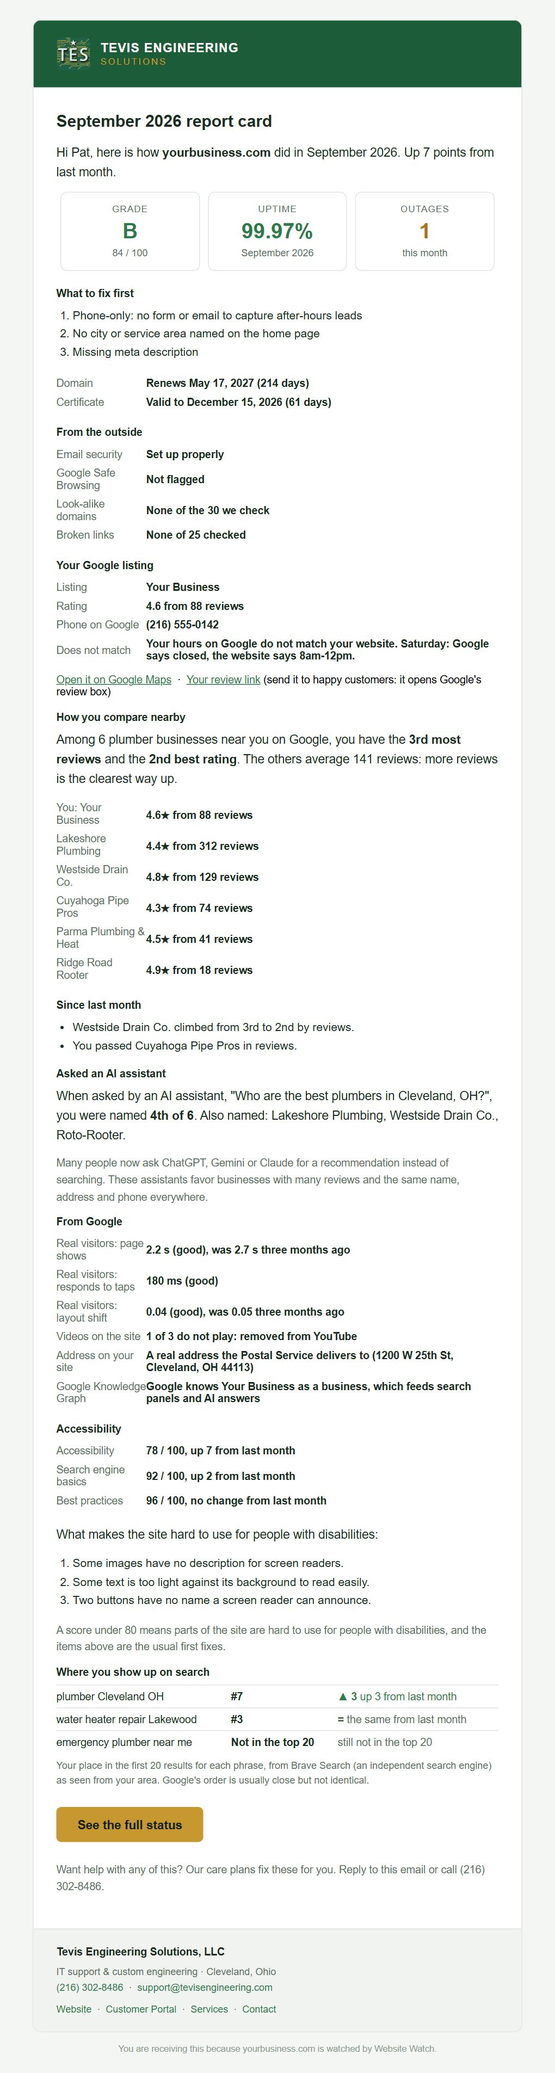
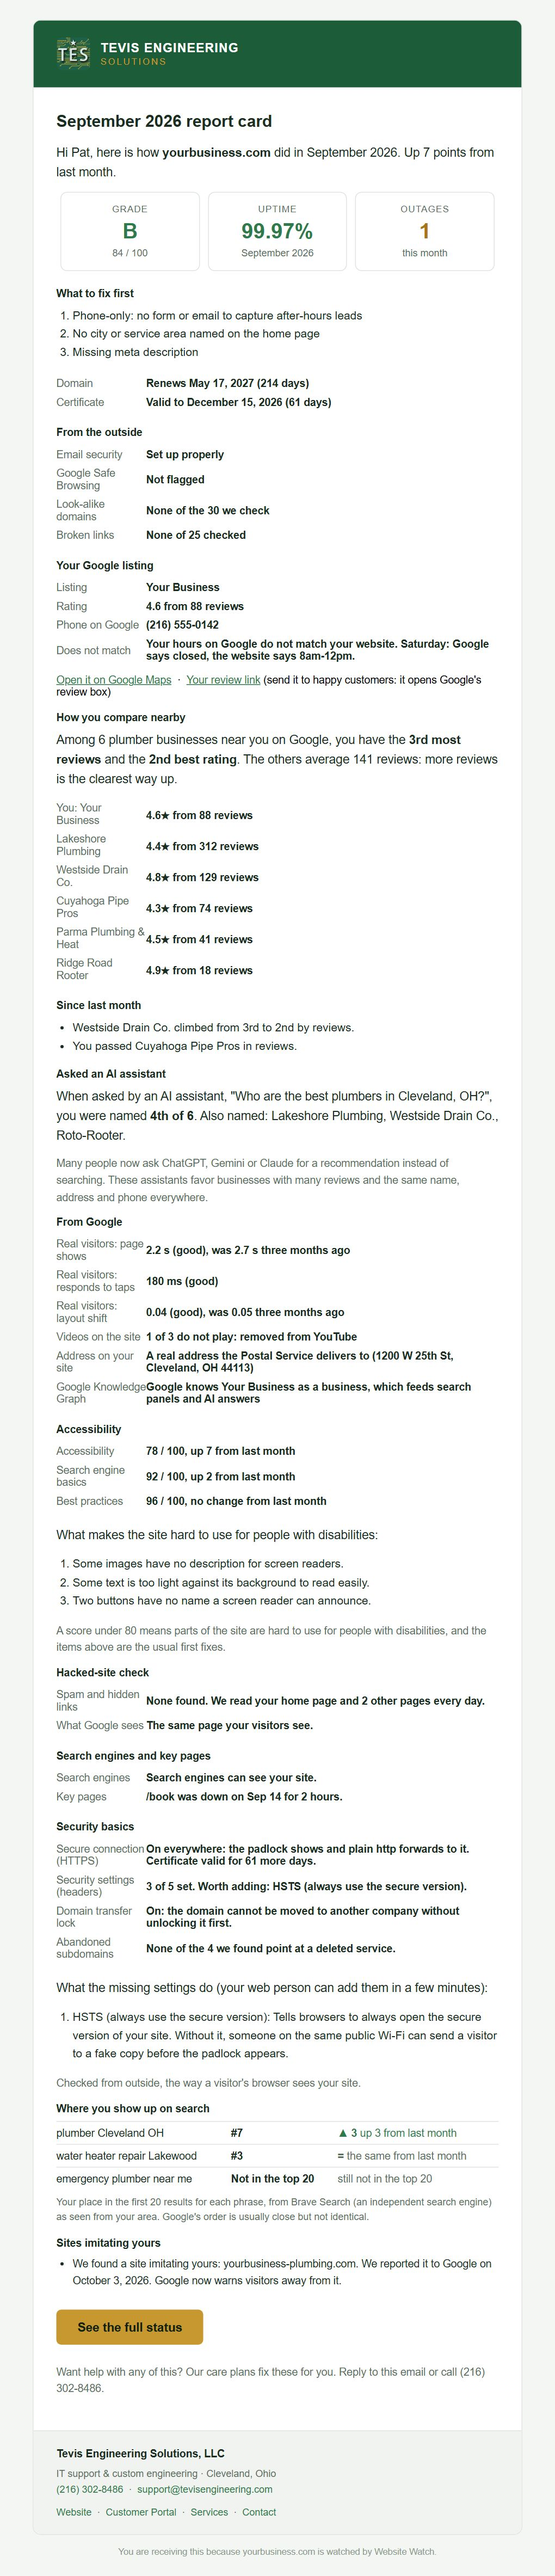
Website Watch page: Block B features (hacked-site check, still on Google, key pages, security basics, copycats reported, holiday hours), a ten-chip cloud, two FAQs, and the sample report card re-rendered with the new sections

Changed region(s): [[0.0608, 0.0, 0.9422, 0.9995]]

diff --git a/website-watch.html b/website-watch.html
@@ -732,7 +732,7 @@
 
 
     /* Feature cloud: eight chips orbit a hub that explains the chosen one. */
-    .ww-cloud { position:relative; width:min(900px, 100%); height:540px; margin:0 auto; }
+    .ww-cloud { position:relative; width:min(900px, 100%); height:600px; margin:0 auto; }
     .ww-cloud::before { content:""; position:absolute; inset:9% 7%; border-radius:50%; border:1px dashed rgba(74,172,101,0.28); }
     .ww-cloud::after { content:""; position:absolute; left:50%; top:50%; width:520px; height:360px; transform:translate(-50%,-50%); background:radial-gradient(closest-side, rgba(74,172,101,0.16), transparent); pointer-events:none; }
     .ww-hub { position:absolute; left:50%; top:50%; transform:translate(-50%,-50%); width:340px; z-index:1; text-align:center; padding:1.6rem 1.5rem; border-radius:28px; border:1px solid rgba(200,152,48,0.45); background:linear-gradient(170deg, rgba(200,152,48,0.1), rgba(20,32,25,0.95) 50%); box-shadow:0 24px 60px rgba(0,0,0,0.4); }
@@ -745,14 +745,22 @@
     .ww-fchip.on { background:linear-gradient(135deg,#c89830,#e0b840); border-color:transparent; color:#0d1710; box-shadow:0 10px 30px rgba(200,152,48,0.3); }
     .ww-fchip.on i { color:#0d1710; }
     .ww-fchip:nth-child(1) { left:50%; top:7%; }
-    .ww-fchip:nth-child(2) { left:79%; top:20%; }
-    .ww-fchip:nth-child(3) { left:84%; top:50%; }
-    .ww-fchip:nth-child(4) { left:79%; top:80%; }
-    .ww-fchip:nth-child(5) { left:50%; top:93%; }
-    .ww-fchip:nth-child(6) { left:21%; top:80%; }
-    .ww-fchip:nth-child(7) { left:16%; top:50%; }
-    .ww-fchip:nth-child(8) { left:21%; top:20%; }
+    .ww-fchip:nth-child(2) { left:70%; top:15.2%; }
+    .ww-fchip:nth-child(3) { left:85%; top:36.7%; }
+    .ww-fchip:nth-child(4) { left:85%; top:63.3%; }
+    .ww-fchip:nth-child(5) { left:70%; top:84.8%; }
+    .ww-fchip:nth-child(6) { left:50%; top:93%; }
+    .ww-fchip:nth-child(7) { left:30%; top:84.8%; }
+    .ww-fchip:nth-child(8) { left:15%; top:63.3%; }
+    .ww-fchip:nth-child(9) { left:15%; top:36.7%; }
+    .ww-fchip:nth-child(10) { left:30%; top:15.2%; }
     @keyframes wwFloat { 0%,100% { margin-top:0; } 50% { margin-top:-6px; } }
+    @media (min-width: 901px) and (max-width: 1100px) {
+      .ww-hub { width:300px; }
+      .ww-fchip { font-size:0.8rem; padding:0.55rem 0.85rem; }
+      .ww-fchip:nth-child(3), .ww-fchip:nth-child(4) { left:84%; }
+      .ww-fchip:nth-child(8), .ww-fchip:nth-child(9) { left:16%; }
+    }
     @media (prefers-reduced-motion: reduce) { .ww-fchip { animation:none; } }
     .ww-fchip-d, .ww-fdots { display:none; }
     @media (max-width:900px) {
@@ -1065,34 +1073,36 @@
     <section class="ww-sec" id="features" aria-labelledby="featHead">
       <div class="ww-head">
         <span class="ww-kicker">What you get</span>
-        <h2 id="featHead">Eight Ways a Website Quietly Loses You Customers, Caught</h2>
+        <h2 id="featHead">Ten Ways a Website Quietly Loses You Customers, Caught</h2>
       </div>
       <div class="ww-cloud" id="wwCloud">
         <div class="ww-hub" aria-live="polite">
           <div class="ww-hub-ic"><i class="fa-solid fa-phone-slash" id="wwHubIc"></i></div>
           <h3 id="wwHubT">Down? You hear first</h3>
-          <p id="wwHubD">Visitors never tell you; they call the next name on Google. We check every 15 minutes and email you the minute it stops, and again when it is back.</p>
+          <p id="wwHubD">Visitors never tell you; they call the next name on Google. We check your site every 15 minutes and your contact and booking pages every hour, and email you the minute one stops.</p>
         </div>
         <div class="ww-fchips" role="group" aria-label="What Website Watch checks">
-          <button type="button" class="ww-fchip on" style="--i:0" data-ic="fa-solid fa-phone-slash" data-d="Visitors never tell you; they call the next name on Google. We check every 15 minutes and email you the minute it stops, and again when it is back." aria-pressed="true"><span class="ww-fchip-ic"><i class="fa-solid fa-phone-slash"></i></span> <span class="ww-fchip-t">Down? You hear first</span><span class="ww-fchip-d">Visitors never tell you; they call the next name on Google. We check every 15 minutes and email you the minute it stops, and again when it is back.</span></button>
+          <button type="button" class="ww-fchip on" style="--i:0" data-ic="fa-solid fa-phone-slash" data-d="Visitors never tell you; they call the next name on Google. We check your site every 15 minutes and your contact and booking pages every hour, and email you the minute one stops." aria-pressed="true"><span class="ww-fchip-ic"><i class="fa-solid fa-phone-slash"></i></span> <span class="ww-fchip-t">Down? You hear first</span><span class="ww-fchip-d">Visitors never tell you; they call the next name on Google. We check your site every 15 minutes and your contact and booking pages every hour, and email you the minute one stops.</span></button>
           <button type="button" class="ww-fchip" style="--i:1" data-ic="fa-solid fa-calendar-check" data-d="A lapsed domain takes your email down with it; an expired certificate shows &ldquo;Not secure.&rdquo; We warn you 30, 14 and 7 days ahead." aria-pressed="false"><span class="ww-fchip-ic"><i class="fa-solid fa-calendar-check"></i></span> <span class="ww-fchip-t">Renewals never sneak up</span><span class="ww-fchip-d">A lapsed domain takes your email down with it; an expired certificate shows &ldquo;Not secure.&rdquo; We warn you 30, 14 and 7 days ahead.</span></button>
           <button type="button" class="ww-fchip" style="--i:2" data-ic="fa-solid fa-envelope-circle-check" data-d="We check the settings that keep your quotes and invoices out of spam folders, and tell you in plain words what is missing." aria-pressed="false"><span class="ww-fchip-ic"><i class="fa-solid fa-envelope-circle-check"></i></span> <span class="ww-fchip-t">Your email lands, not spam</span><span class="ww-fchip-d">We check the settings that keep your quotes and invoices out of spam folders, and tell you in plain words what is missing.</span></button>
-          <button type="button" class="ww-fchip" style="--i:3" data-ic="fa-solid fa-user-secret" data-d="If your domain's settings change, we ask &ldquo;was that you?&rdquo; If someone registers a look-alike name to fool your customers, we tell you." aria-pressed="false"><span class="ww-fchip-ic"><i class="fa-solid fa-user-secret"></i></span> <span class="ww-fchip-t">Hijacks and copycats spotted</span><span class="ww-fchip-d">If your domain's settings change, we ask &ldquo;was that you?&rdquo; If someone registers a look-alike name to fool your customers, we tell you.</span></button>
-          <button type="button" class="ww-fchip" style="--i:4" data-ic="fa-solid fa-shield-halved" data-d="A hacked site gets a red warning screen in Chrome and loses its visitors overnight. We check Google's list daily and alert you at once." aria-pressed="false"><span class="ww-fchip-ic"><i class="fa-solid fa-shield-halved"></i></span> <span class="ww-fchip-t">Off Google's danger list</span><span class="ww-fchip-d">A hacked site gets a red warning screen in Chrome and loses its visitors overnight. We check Google's list daily and alert you at once.</span></button>
+          <button type="button" class="ww-fchip" style="--i:3" data-ic="fa-solid fa-user-secret" data-d="If your domain's settings change, we ask &ldquo;was that you?&rdquo; If a look-alike site copies yours to fool your customers, we tell you and report it to Google." aria-pressed="false"><span class="ww-fchip-ic"><i class="fa-solid fa-user-secret"></i></span> <span class="ww-fchip-t">Hijacks and copycats spotted</span><span class="ww-fchip-d">If your domain's settings change, we ask &ldquo;was that you?&rdquo; If a look-alike site copies yours to fool your customers, we tell you and report it to Google.</span></button>
+          <button type="button" class="ww-fchip" style="--i:4" data-ic="fa-solid fa-bug" data-d="Hackers plant spam links you can't see and show Google a different page. We read your pages every day, check Google's danger list, and alert you at once." aria-pressed="false"><span class="ww-fchip-ic"><i class="fa-solid fa-bug"></i></span> <span class="ww-fchip-t">Hacked? Caught early</span><span class="ww-fchip-d">Hackers plant spam links you can't see and show Google a different page. We read your pages every day, check Google's danger list, and alert you at once.</span></button>
           <button type="button" class="ww-fchip" style="--i:5" data-ic="fa-solid fa-link-slash" data-d="Broken links and missing images make a business look closed. We find them every month and list exactly where they are." aria-pressed="false"><span class="ww-fchip-ic"><i class="fa-solid fa-link-slash"></i></span> <span class="ww-fchip-t">No dead ends</span><span class="ww-fchip-d">Broken links and missing images make a business look closed. We find them every month and list exactly where they are.</span></button>
           <button type="button" class="ww-fchip" style="--i:6" data-ic="fa-solid fa-cart-shopping" data-d="Store stuck behind its password, a $0.00 price, an emptied catalog, a cart that stopped loading or a price that changed: you know the same day." aria-pressed="false"><span class="ww-fchip-ic"><i class="fa-solid fa-cart-shopping"></i></span> <span class="ww-fchip-t">Shopify store checks</span><span class="ww-fchip-d">Store stuck behind its password, a $0.00 price, an emptied catalog, a cart that stopped loading or a price that changed: you know the same day.</span></button>
           <button type="button" class="ww-fchip" style="--i:7" data-ic="fa-solid fa-chart-line" data-d="Add one line to your site and see visitors, plus the clicks that matter: calls, emails, form sends and add-to-carts. No cookies, no banner." aria-pressed="false"><span class="ww-fchip-ic"><i class="fa-solid fa-chart-line"></i></span> <span class="ww-fchip-t">See who is calling</span><span class="ww-fchip-d">Add one line to your site and see visitors, plus the clicks that matter: calls, emails, form sends and add-to-carts. No cookies, no banner.</span></button>
+          <button type="button" class="ww-fchip" style="--i:8" data-ic="fa-solid fa-eye" data-d="A redesign that tells search engines to stay away can quietly empty your phone. We check every day that Google can still find and list your site." aria-pressed="false"><span class="ww-fchip-ic"><i class="fa-solid fa-eye"></i></span> <span class="ww-fchip-t">Still on Google</span><span class="ww-fchip-d">A redesign that tells search engines to stay away can quietly empty your phone. We check every day that Google can still find and list your site.</span></button>
+          <button type="button" class="ww-fchip" style="--i:9" data-ic="fa-solid fa-lock" data-d="The padlock, the security settings browsers look for, your domain's transfer lock and forgotten subdomains someone could take over, in plain words." aria-pressed="false"><span class="ww-fchip-ic"><i class="fa-solid fa-lock"></i></span> <span class="ww-fchip-t">Security basics, checked</span><span class="ww-fchip-d">The padlock, the security settings browsers look for, your domain's transfer lock and forgotten subdomains someone could take over, in plain words.</span></button>
         </div>
-        <div class="ww-fdots" aria-hidden="true"><i class="on"></i><i></i><i></i><i></i><i></i><i></i><i></i><i></i></div>
+        <div class="ww-fdots" aria-hidden="true"><i class="on"></i><i></i><i></i><i></i><i></i><i></i><i></i><i></i><i></i><i></i></div>
       </div>
       <div class="ww-sample">
         <a class="ww-sample-img" href="assets/website-watch/sample-report.jpg" target="_blank" rel="noopener" data-zoom aria-label="Expand the sample report card">
-          <img src="assets/website-watch/sample-report.jpg" width="680" height="2540" loading="lazy" alt="A sample monthly report card email: grade B, 84 out of 100, up 7 points; 99.97% uptime; one outage; three fixes; renewal dates; outside checks; the Google listing with an hours mismatch and a review link; how the business compares with 5 nearby plumbers and what changed; an AI assistant naming it 4th of 6; real-visitor speed, a broken video, the address and the Knowledge Graph; the accessibility trend; and its search positions for three phrases.">
+          <img src="assets/website-watch/sample-report.jpg" width="680" height="3155" loading="lazy" alt="A sample monthly report card email: grade B, 84 out of 100, up 7 points; 99.97% uptime; one outage; three fixes; renewal dates; outside checks; the Google listing with an hours mismatch and a review link; how the business compares with 5 nearby plumbers and what changed; an AI assistant naming it 4th of 6; real-visitor speed, a broken video, the address and the Knowledge Graph; the accessibility trend; a clean hacked-site check; search engines and key pages, with one booking-page outage; security basics with one setting worth adding; its search positions for three phrases; and a copycat site reported to Google.">
         </a>
         <div class="ww-sample-copy">
           <span class="ww-kicker">The monthly report card</span>
           <h3>What lands in your inbox on the 1st</h3>
-          <p>Your grade and how it moved, uptime and outages, visitors and calls, email and security health, your store, the three fixes worth making first, and your renewal dates. One short email, written for the owner, not the web person.</p>
+          <p>Your grade and how it moved, uptime and outages, visitors and calls, email and security health, hacked-site and search-engine checks, your store, the three fixes worth making first, and your renewal dates. One short email, written for the owner, not the web person.</p>
           <a class="btn btn-secondary" href="assets/website-watch/sample-report.jpg" target="_blank" rel="noopener" data-zoom>See a sample report card</a>
         </div>
       </div>
@@ -1110,6 +1120,7 @@
             <li><i class="fa-solid fa-star-half-stroke"></i> <span><b>New 1 and 2 star reviews</b>, as soon as we see them, so you can answer before the next customer reads it</span></li>
             <li><i class="fa-solid fa-phone"></i> <span><b>Phone, hours, address and website link</b> compared with your site. Customers trust Google, so a wrong number there is a lost call</span></li>
             <li><i class="fa-solid fa-ranking-star"></i> <span><b>How you compare nearby</b>: your reviews and rating against the businesses you compete with, every month</span></li>
+            <li><i class="fa-solid fa-calendar-day"></i> <span><b>Holiday hours</b>: the week before Thanksgiving, Christmas and other holidays, we check whether Google shows your holiday hours and remind you if not</span></li>
             <li><i class="fa-solid fa-qrcode"></i> <span><b>Your review link and QR code</b>, ready to text, print on receipts or put on the counter</span></li>
             <li><i class="fa-solid fa-gauge-high"></i> <span><b>Real-visitor speed</b> from Chrome, videos that stopped playing, and whether Google knows you as a business</span></li>
           </ul>
@@ -1339,7 +1350,15 @@
         </details>
         <details>
           <summary>What do you check on my Google listing?</summary>
-          <div class="faq-a">Every week: new 1 and 2 star reviews, whether your rating fell under 4.0, and whether the phone number, hours, address and website link on Google match your website, or Google shows you as closed. Every month: how your reviews and rating compare with businesses like yours nearby. Your portal also has your review link and a QR code to send customers. We only read your public listing; we never post or change anything on it.</div>
+          <div class="faq-a">Every week: new 1 and 2 star reviews, whether your rating fell under 4.0, and whether the phone number, hours, address and website link on Google match your website, or Google shows you as closed. Every month: how your reviews and rating compare with businesses like yours nearby. The week before major holidays, we check whether your holiday hours are set on Google and remind you if they are not. Your portal also has your review link and a QR code to send customers. We only read your public listing; we never post or change anything on it.</div>
+        </details>
+        <details>
+          <summary>How would you know if my site was hacked?</summary>
+          <div class="faq-a">Every day we read your home page and a couple of your key pages the way a visitor does, and once more the way Google's crawler does. We look for planted spam links and text (pills, casinos, loans), links hidden from visitors, a page that shows Google something different, and Google's own danger list. If we find something, you hear the same day, in plain words, with what to do next.</div>
+        </details>
+        <details>
+          <summary>What if someone copies my website?</summary>
+          <div class="faq-a">We watch the public certificate logs for new web addresses that look like yours. When one shows a page imitating your business (your name, phone number or wording), we report it to Google and email you when we do. Parked and unrelated pages are left alone.</div>
         </details>
         <details>
           <summary>How do I cancel?</summary>
